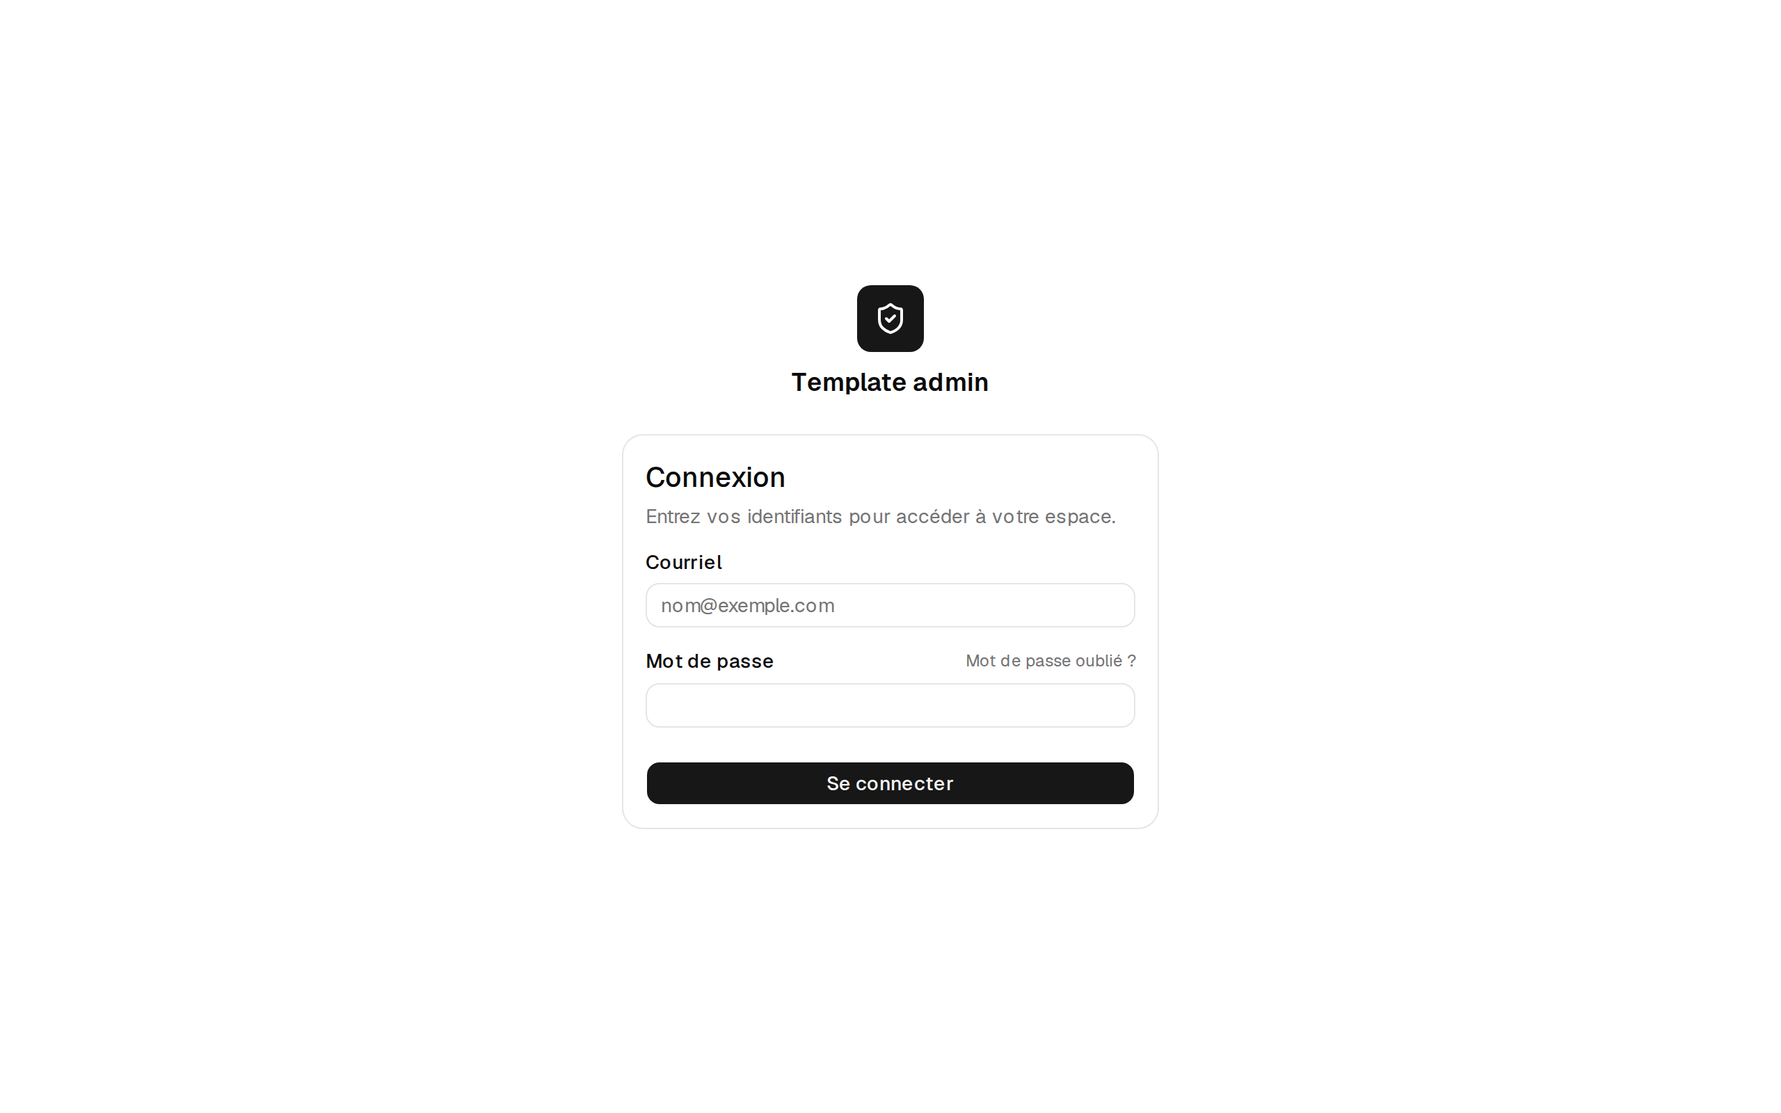
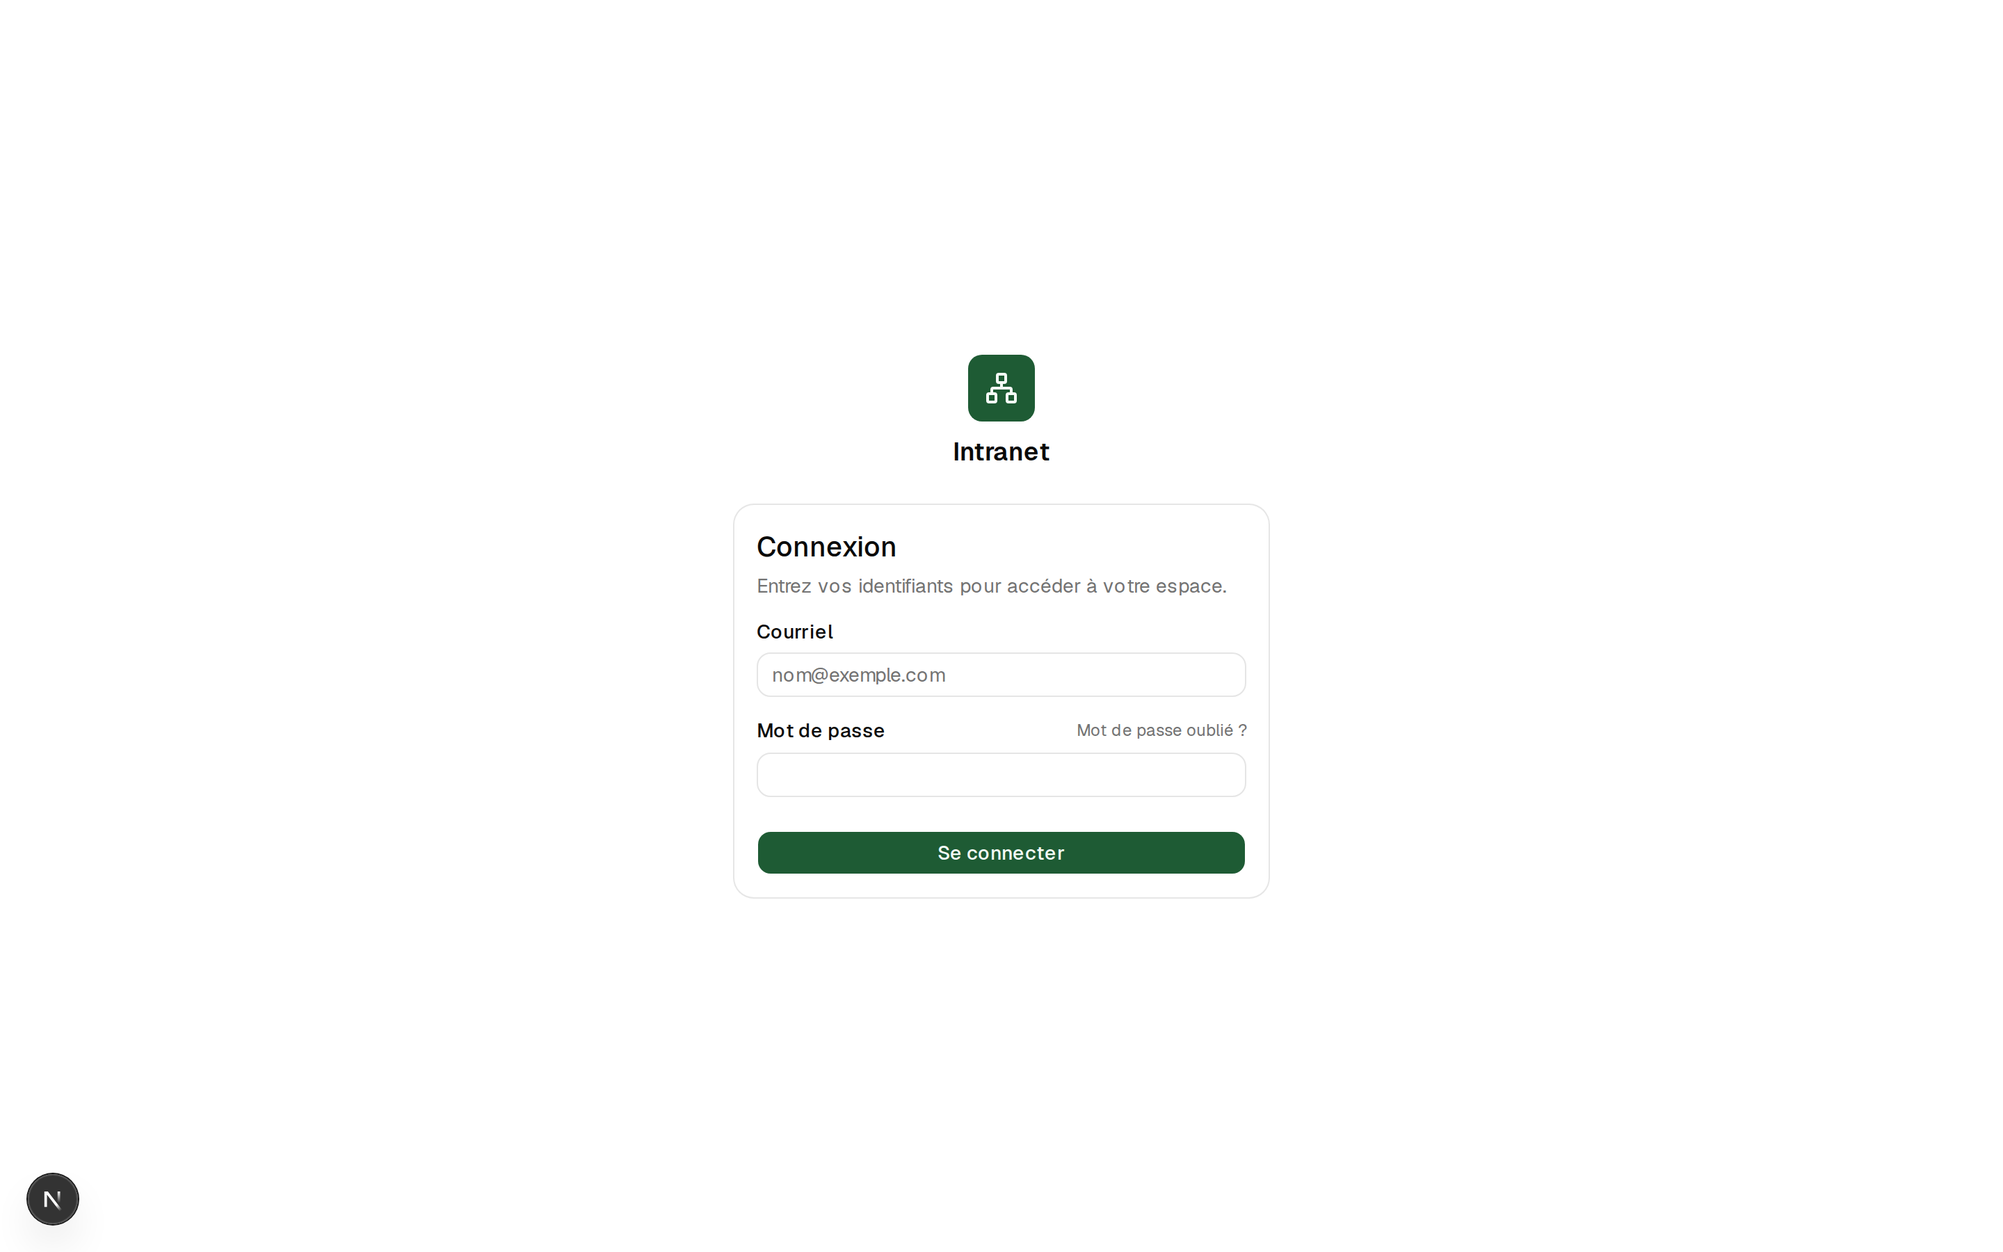
README : présentation de l'intranet avec captures d'écran

diff --git a/README.md b/README.md
@@ -1,153 +1,58 @@
-# Admin Template
+# Intranet
 
-Projet personnel qui me sert de base commune pour tous les systèmes de gestion (admin / back-office) que je développe pour mes clients.
+Réseau social interne pour PME : un fil d'actualités unique où vivent les publications des employés, les annonces officielles, les événements et les groupes — pensé pour remplacer le groupe Facebook privé et les courriels « à tout le monde ».
 
-Plutôt que de repartir de zéro à chaque projet client, ce template regroupe la structure et les fonctionnalités de départ que je réutilise d'un système de gestion à l'autre.
+Construit à partir de mon [admin-template](https://github.com/alexcarrrrdev/admin-template) (authentification, rôles et permissions dynamiques, journal d'audit, identité personnalisable).
 
 ## Aperçu
 
+![Fil d'actualités](docs/captures/fil.png)
+*Le fil d'actualités, page d'accueil : composeur (message, bon coup, sondage), annonces et événements intégrés au fil, rail de navigation par groupe et par événement*
+
 | | |
 | :---: | :---: |
-| ![Page de connexion](docs/captures/connexion.png) | ![Gestion des utilisateurs](docs/captures/utilisateurs.png) |
-| *Connexion (nom et logo personnalisables)* | *Gestion des utilisateurs* |
-| ![Matrice de permissions d'un rôle](docs/captures/role-permissions.png) | ![Liste des rôles en mode sombre](docs/captures/roles-sombre.png) |
-| *Rôles : matrice de permissions par ressource* | *Mode sombre* |
+| ![Groupe privé](docs/captures/groupe.png) | ![Calendrier](docs/captures/calendrier.png) |
+| *Un groupe privé et son fil réservé aux membres* | *Calendrier des événements avec participation* |
+| ![Annuaire](docs/captures/annuaire.png) | ![Administration](docs/captures/administration.png) |
+| *Annuaire des employés* | *Gestion des utilisateurs, rôles et permissions* |
 
-![Page de profil](docs/captures/profil.png)
-*Profil : informations, changement de mot de passe et sessions actives*
+![Connexion](docs/captures/connexion.png)
+*Connexion — nom, logo et couleur personnalisables, sans inscription publique*
 
-## Fonctionnalités
+## Modules
 
-- **Authentification complète** (Better Auth) : connexion, sessions, réinitialisation de mot de passe par courriel — sans inscription publique, les comptes étant créés par un administrateur.
-- **Rôles et permissions dynamiques** : rôles créés depuis l'interface avec une matrice de permissions par ressource ; la navigation et les actions s'adaptent automatiquement aux permissions de chacun.
-- **Gestion des utilisateurs** : création, modification et suppression douce (données conservées, déconnexion immédiate) depuis la section Administration.
-- **Journal d'audit** : historique consultable (`/administration/journal`) des actions administratives — qui a fait quoi, quand, sur quoi.
-- **Profil** : informations du compte, changement de mot de passe (qui déconnecte les autres appareils) et liste des sessions actives avec révocation.
-- **Identité par client** : nom de l'application, logo et couleur principale configurables depuis l'interface, affichés jusque sur la page de connexion — dupliquer le template, c'est surtout changer ces champs. Pour la couleur, le contraste du texte et une variante adaptée au mode sombre sont calculés automatiquement à partir de la seule teinte choisie, avec une réinitialisation en un clic vers le thème par défaut.
-- **Thème clair / sombre / système**, sans clignotement au chargement.
-- **Sécurité par défaut** : en-têtes HTTP (CSP, HSTS…), limitation de débit persistante sur la connexion, validation des variables d'environnement au démarrage, garde-fous anti-verrouillage (dernier administrateur protégé, rôle admin immuable).
-- **Tests** : unitaires, composants et intégration contre une vraie base Postgres.
+- **Fil d'actualités** (`/fil`) — le hub de l'intranet. Trois types de publications : **messages**, **bons coups** (féliciter un collègue, mis en valeur dans le fil) et **sondages** (2 à 5 choix, un vote par personne, résultats en barres). Réactions emoji, commentaires, suppression par l'auteur ou un modérateur (`post:delete-any`).
+- **Annonces** — canal officiel direction → employés, directement dans le fil. Bouton « Marquer comme lue » et compteur **« Lue par X/Y »** avec la liste des lecteurs pour les gestionnaires (`announcement:manage`) — ce qu'un groupe Facebook ne fera jamais. Annonces épinglées toujours en tête de fil.
+- **Groupes privés sur invitation** — chaque groupe a son fil, lisible par ses membres seulement. Pas d'adhésion libre : un membre vous invite, vous acceptez ou refusez (section « Invitations » dans le rail). Un clic sur un groupe filtre le fil.
+- **Événements** (`/calendrier` + rail du fil) — liste des événements à venir, participation **« Je participe / Je ne participe pas »** avec compteur, et chaque événement a ses propres publications dans le fil.
+- **Annuaire** (`/annuaire`) — tous les employés actifs avec photo, rôle et courriel, recherche instantanée.
+- **Photo de profil** — chaque employé téléverse la sienne (10 Mo max, validation par signature binaire), reprise partout dans l'app.
 
-## Technologies utilisées
+Le tout hérite du socle du template : **rôles et permissions dynamiques** (la navigation et chaque action s'adaptent aux permissions), **journal d'audit** des actions de gestion, **identité personnalisable** (nom, logo, couleur — vert sapin par défaut), thème clair/sombre, et une sécurité vérifiée en profondeur (chaque Server Action revérifie session et permission ; un utilisateur ne voit que ce qu'il a le droit de voir).
 
-- **[Next.js](https://nextjs.org)** (App Router) — framework React full-stack : le frontend et le backend (Server Actions, Route Handlers) vivent dans le même projet, ce qui donne une seule application à déployer par client.
-- **[React](https://react.dev)** — bibliothèque UI.
-- **[TypeScript](https://www.typescriptlang.org)** — typage statique de bout en bout, pour adapter le template d'un client à l'autre sans casser des choses silencieusement.
-- **[Tailwind CSS](https://tailwindcss.com)** (v4) — styling utilitaire, facile à personnaliser aux couleurs de chaque client.
-- **[PostgreSQL](https://www.postgresql.org)** — base de données relationnelle, lancée localement via Docker.
-- **[Drizzle ORM](https://orm.drizzle.team)** — ORM TypeScript léger : schéma défini en TypeScript, migrations SQL lisibles et générées automatiquement, sans surcouche superflue.
-- **[Better Auth](https://www.better-auth.com)** — authentification par courriel/mot de passe (connexion, réinitialisation de mot de passe) et permissions par rôle, branchée directement sur la base Postgres via l'adaptateur Drizzle.
-- **ESLint** — linting avec la configuration Next.js.
-- **Turbopack** — bundler utilisé par `next dev` et `next build`.
+## Technologies
+
+- **[Next.js](https://nextjs.org)** (App Router) — frontend et backend (Server Actions) dans une seule application à déployer.
+- **[TypeScript](https://www.typescriptlang.org)**, **[React](https://react.dev)**, **[Tailwind CSS](https://tailwindcss.com)** v4.
+- **[PostgreSQL](https://www.postgresql.org)** via Docker, **[Drizzle ORM](https://orm.drizzle.team)** (schéma TypeScript, migrations SQL générées).
+- **[Better Auth](https://www.better-auth.com)** — sessions, réinitialisation de mot de passe, rate limiting persistant.
+- **Vitest** — tests unitaires, composants et intégration contre une vraie base Postgres.
 
 ## Démarrer
 
 ```bash
+cp .env.example .env        # générer BETTER_AUTH_SECRET avec : openssl rand -base64 32
+docker compose up -d        # PostgreSQL local (port 5435 par défaut)
 npm install
+npm run db:migrate
+npm run create-admin -- --name "Prénom Nom" --email vous@exemple.com --password "MotDePasse123!"
 npm run dev
 ```
 
-L'application tourne ensuite sur [http://localhost:3000](http://localhost:3000).
+L'application tourne sur [http://localhost:3000](http://localhost:3000). Il n'y a **pas d'inscription publique** : le premier compte est créé par le script ci-dessus, les suivants depuis `/administration/utilisateurs`.
 
-## Base de données
+Commandes utiles : `npm run db:generate` (nouvelle migration après modification de `src/db/schema.ts`), `npm run db:studio` (explorer les données), `npx vitest run` (tests), `npm run lint`.
 
-1. Copier `.env.example` vers `.env` (les valeurs par défaut fonctionnent avec le `docker-compose.yml` fourni ; si un autre Postgres occupe déjà le port 5432 sur la machine, changer `POSTGRES_PORT` et le port dans `DATABASE_URL`) :
+## Courriels
 
-   ```bash
-   cp .env.example .env
-   ```
-
-2. Démarrer PostgreSQL en local avec Docker :
-
-   ```bash
-   docker compose up -d
-   ```
-
-3. Appliquer les migrations :
-
-   ```bash
-   npm run db:migrate
-   ```
-
-Autres commandes utiles : `npm run db:generate` pour générer une nouvelle migration après une modification de `src/db/schema.ts`, et `npm run db:studio` pour ouvrir Drizzle Studio et explorer les données.
-
-## Authentification
-
-L'authentification (connexion, sessions, réinitialisation de mot de passe) est gérée par Better Auth. Il n'y a **pas d'inscription publique** : les comptes sont créés uniquement par un administrateur.
-
-### Variables d'environnement
-
-En plus de `DATABASE_URL`, deux variables sont nécessaires (voir `.env.example`) :
-
-- `BETTER_AUTH_SECRET` — clé secrète servant à signer/chiffrer les sessions, d'au moins 32 caractères. Générer une valeur unique par environnement avec `openssl rand -base64 32`.
-- `BETTER_AUTH_URL` — URL de base de l'application (ex. `http://localhost:3000` en local).
-
-Ces trois variables (avec `DATABASE_URL`) sont validées une seule fois, au démarrage, par `src/lib/env.ts` : si l'une d'elles est absente ou mal formée (ex. secret trop court, URL invalide), l'application refuse de démarrer et affiche un message d'erreur explicite listant chaque variable en cause, plutôt que d'échouer plus tard de façon confuse.
-
-### Limitation de débit (rate limiting)
-
-Les tentatives de connexion et de réinitialisation de mot de passe sont limitées par IP, en production uniquement, avec des compteurs stockés en base (table `rate_limit`, survit aux redémarrages). Deux mécanismes appliquent cette même politique, car ils couvrent deux chemins d'accès distincts : le rate limiting intégré de Better Auth (`rateLimit` dans `src/lib/auth/index.ts`) protège les requêtes qui passent par son routeur HTTP, tandis que `src/lib/auth/rate-limit.ts` protège les Server Actions (`src/app/actions/auth.ts`), qui appellent l'API de Better Auth directement et contourneraient sinon entièrement cette protection.
-
-### Créer le premier compte administrateur
-
-```bash
-npm run create-admin -- --name "Alex Caron" --email alex@exemple.com --password "MotDePasse123!"
-```
-
-Sans arguments, le script les demande un à un de façon interactive. Il crée l'utilisateur avec le rôle `admin` (voir « Gestion des utilisateurs et des rôles » ci-dessous, et `src/lib/auth/permissions.ts` pour le détail du catalogue de permissions) en utilisant directement les fonctions internes de Better Auth, afin que le mot de passe soit haché exactement comme pour une connexion normale.
-
-### Gestion des utilisateurs et des rôles
-
-Un administrateur gère les comptes et les rôles applicatifs depuis **/administration/utilisateurs** et **/administration/roles** : création, modification, suppression, et une matrice de permissions par ressource (voir le catalogue `statement` dans `src/lib/auth/permissions.ts`) pour les rôles personnalisés. Chaque action de ces pages (bouton « Créer », « Modifier », « Supprimer ») ne s'affiche que si l'utilisateur connecté a la permission correspondante — un simple confort d'UI, la vérification qui fait autorité reste dans les Server Actions (`src/app/actions/users.ts`, `src/app/actions/roles.ts`).
-
-- **Rôles système** : `admin` (accès complet à toutes les ressources, y compris celles ajoutées plus tard dans le code — aucune ligne dans `role_permission` pour lui) et `member`, le rôle par défaut de tout nouveau compte. **`member` démarre sans aucune permission** : un administrateur doit les accorder explicitement depuis /administration/roles. (Les bases de données déjà en production dont le rôle `member` avait été personnalisé ne perdent, lors de la mise à jour, que les deux permissions par défaut historiques du template — `user:read` et `settings:read` — le reste des permissions accordées est conservé ; voir la migration `drizzle/0006_soft_delete_users.sql`.)
-- **Suppression d'un utilisateur** : c'est une suppression douce (*soft delete*), pas un effacement — la rangée `user` est conservée (colonne `deleted_at`), seulement marquée comme supprimée. Ses sessions actives sont révoquées immédiatement (l'utilisateur est déconnecté dès sa prochaine requête) et toute nouvelle tentative de connexion échoue avec le même message générique qu'un mauvais mot de passe, y compris via un appel direct à `/api/auth/sign-in/email` (voir le hook `databaseHooks.session.create.before` dans `src/lib/auth/index.ts`, qui bloque la création de session au niveau de Better Auth lui-même, pas seulement dans l'interface). Le courriel du compte supprimé reste réservé (il ne peut pas servir à créer un nouveau compte). Il n'y a pas d'interface de restauration pour l'instant : réactiver un compte est une opération manuelle en base de données (remettre `deleted_at` à `NULL`).
-
-### Envoi de courriels (réinitialisation de mot de passe)
-
-Aucun fournisseur de courriel n'est installé par défaut. Tant qu'aucun n'est configuré, `src/lib/email.ts` affiche simplement le message (destinataire, sujet, lien de réinitialisation) dans la console du serveur — pratique en développement, sans dépendance externe ni clé API.
-
-Pour brancher un vrai fournisseur (ex. [Resend](https://resend.com), SMTP...) en production, il suffit de modifier la fonction `sendEmail` dans `src/lib/email.ts` : le reste de l'application (flux de réinitialisation de mot de passe, etc.) n'a rien à changer.
-
-### Logo personnalisé
-
-Un administrateur peut téléverser un logo depuis **/administration/general** (carte « Logo »), en plus du nom de l'application déjà personnalisable sur cette même page. Le logo remplace l'icône par défaut (ShieldCheck) partout où l'identité de l'application est affichée : barre latérale et pages publiques de connexion (`/`, `/mot-de-passe-oublie`, `/reinitialiser-mot-de-passe`).
-
-- **Formats acceptés** : PNG, JPEG, WebP et SVG.
-- **Taille maximale** : 1 Mo.
-- **Repli par défaut** : tant qu'aucun logo n'est téléversé (ou après un clic sur « Retirer le logo »), l'icône ShieldCheck s'affiche à sa place — aucune configuration n'est requise pour démarrer.
-
-Le fichier est validé côté serveur (taille, type MIME, signature binaire pour PNG/JPEG/WebP, liste noire de motifs dangereux pour SVG — voir `src/lib/settings/logo-validation.ts`) puis stocké directement en base de données (colonnes `logo`/`logo_mime_type` de `app_settings`, voir `src/db/schema.ts`), sans dépendance à un stockage de fichiers externe. Il est ensuite servi par la route `/logo` (`src/app/logo/route.ts`), publique et mise en cache de façon agressive côté navigateur grâce à un paramètre de version qui change automatiquement à chaque mise à jour.
-
-### Journal d'audit
-
-Un administrateur (permission `audit:read`, accordée automatiquement au rôle `admin`) consulte depuis **/administration/journal** l'historique des actions administratives : qui (acteur), quoi (action, avec un court diff avant/après quand pertinent), sur quoi (cible) et quand — avec filtres (par action, par acteur) et pagination. Voir `src/lib/audit/audit.ts` pour le catalogue complet des actions journalisées et `src/db/schema.ts` (table `audit_log`) pour le détail des colonnes.
-
-- **Journalisé** : création/modification/suppression d'un utilisateur, création/modification/suppression d'un rôle, changement du nom de l'application, du logo ou de la couleur principale, connexion, changement ou réinitialisation de mot de passe, modification du nom depuis /profil, révocation d'une session ou de toutes les autres.
-- **Volontairement PAS journalisé** :
-  - les **tentatives de connexion échouées** — les journaliser exposerait le journal lui-même à être inondé par un tiers qui essaierait des mots de passe au hasard sur un compte connu (la limitation de débit sur `/sign-in/email` réduit ce risque sans l'éliminer : elle limite par IP, pas par compte visé) ;
-  - les **demandes de réinitialisation de mot de passe** — même risque d'inondation, plus un risque propre au journal : cette action répond volontairement de la même façon qu'un courriel corresponde ou non à un compte existant (anti-énumération de comptes), la journaliser recréerait cette fuite dans le journal lui-même.
-- **Conservation** : illimitée pour l'instant — aucune purge automatique. Si le volume devient un problème, une purge manuelle (`DELETE FROM audit_log WHERE created_at < ...`) reste possible directement en base, la table n'ayant aucune contrainte de clé étrangère entrante.
-- **Écriture seule** : le module (`src/lib/audit/audit.ts`) n'expose aucune fonction de mise à jour ni de suppression — une trace d'audit ne se corrige pas après coup.
-
-## Tests
-
-Les tests utilisent [Vitest](https://vitest.dev), avec deux « projects » configurés dans `vitest.config.mts` :
-
-- **`node`** — tests unitaires backend purs, sans base de données : `src/lib/auth/permissions.ts` (permissions par rôle), `src/lib/auth/schemas.ts` (validation Zod) et `src/lib/email.ts`.
-- **`jsdom`** — tests de composants React (DOM simulé, [Testing Library](https://testing-library.com)) : les initiales dans `src/components/nav-user.tsx` et les formulaires d'authentification (`login-form.tsx`, `forgot-password-form.tsx`, `reset-password-form.tsx`). Les Server Actions (`src/app/actions/auth.ts`) y sont simulées avec `vi.mock`, aucun de ces tests ne touche à la base de données.
-
-Un troisième project, **`integration`**, teste `src/lib/auth/index.ts` contre une vraie base Postgres locale (via `auth.api.signInEmail`, `signUpEmail`, etc., pas par HTTP) : création d'utilisateur, connexion, rejet de l'inscription publique, réinitialisation de mot de passe. Ces tests vivent dans des fichiers `*.integration.test.ts` et nécessitent Postgres démarré (`docker compose up -d`).
-
-```bash
-npm test                 # tout : node, jsdom et integration (Postgres requis)
-npm run test:unit        # seulement node et jsdom, sans base de données
-npm run test:integration # seulement les tests d'intégration
-npm run test:watch       # mode watch, sans les tests d'intégration
-```
-
-Si Postgres n'est pas démarré, seuls les tests d'intégration échouent — les tests unitaires et de composants continuent de s'exécuter normalement, et le message d'erreur rappelle comment démarrer la base ou lancer `npm run test:unit`.
-
-Chaque test d'intégration crée son propre utilisateur avec un courriel unique et le supprime après coup (`afterEach`) : la suite est rejouable sans risque et ne touche jamais aux comptes existants.
-
-Les tests vivent à côté du code qu'ils couvrent (`src/**/*.test.ts(x)`), ce qui rend le pattern facile à reproduire pour tout nouveau fichier du template. Il n'y a pas de tests end-to-end (Playwright) dans ce template.
+Aucun fournisseur n'est branché par défaut : en développement, les courriels (réinitialisation de mot de passe) s'affichent dans la console du serveur. Pour la production, modifier `sendEmail` dans `src/lib/email.ts` (Resend, SMTP…) — rien d'autre à changer.
